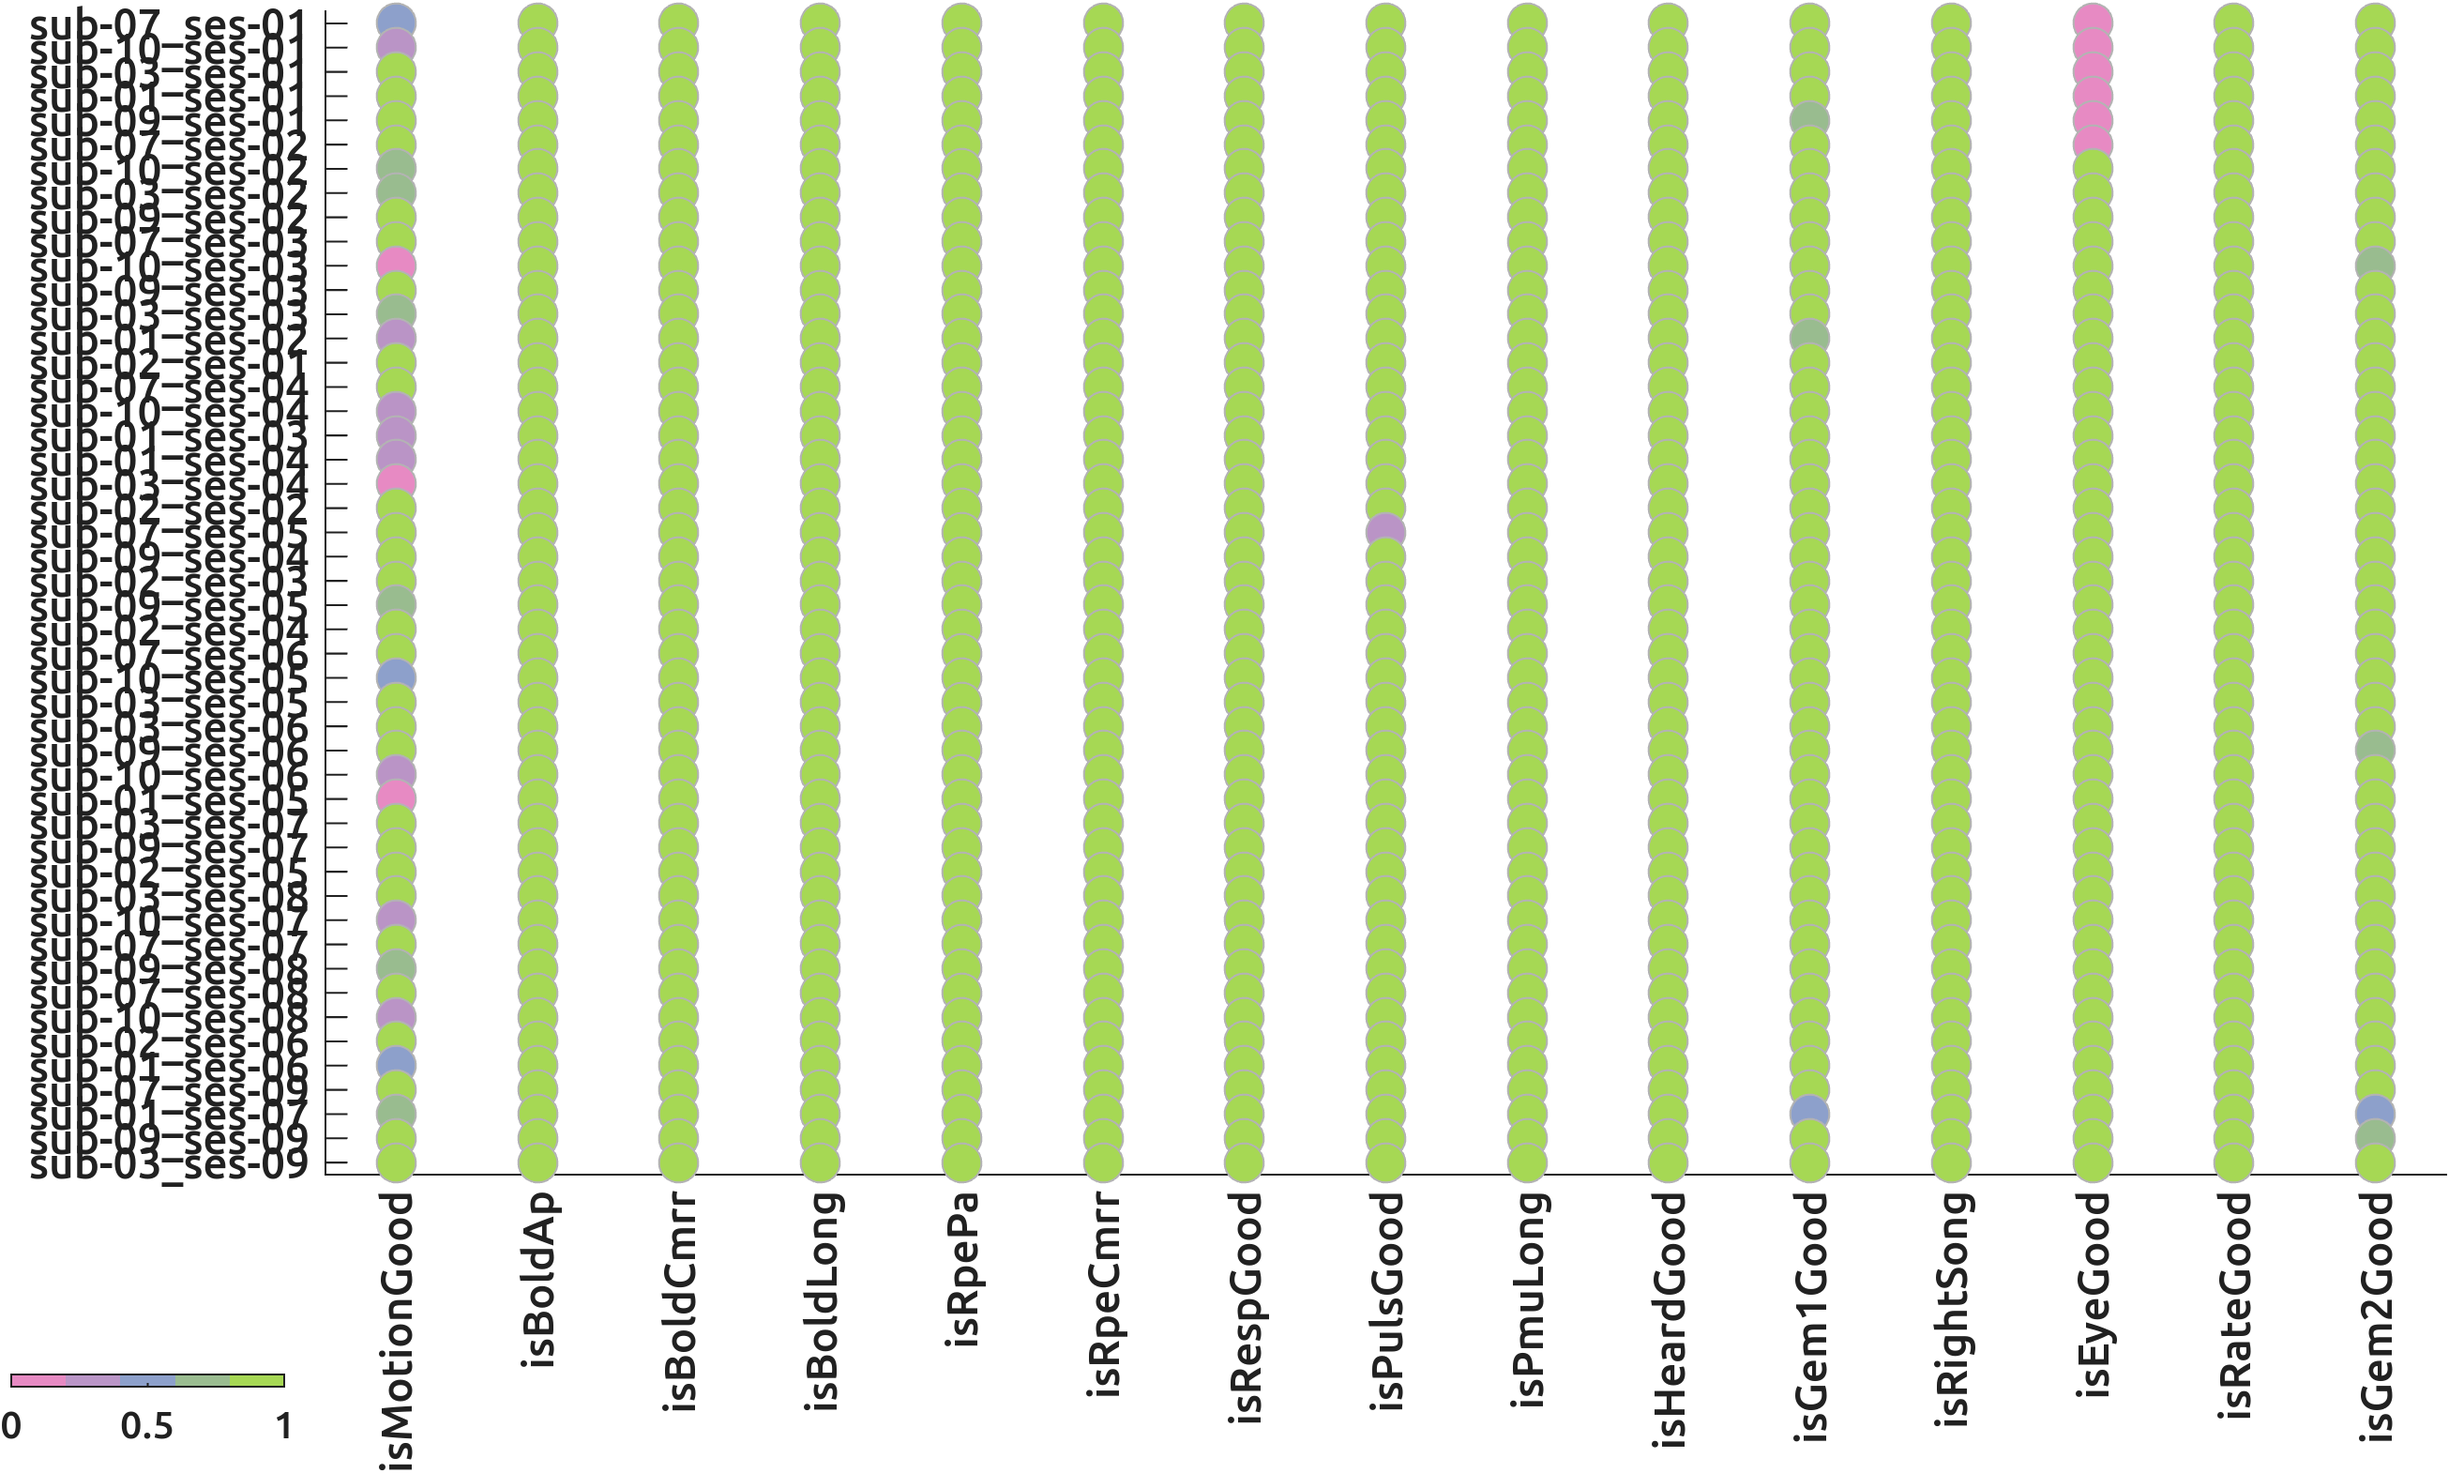
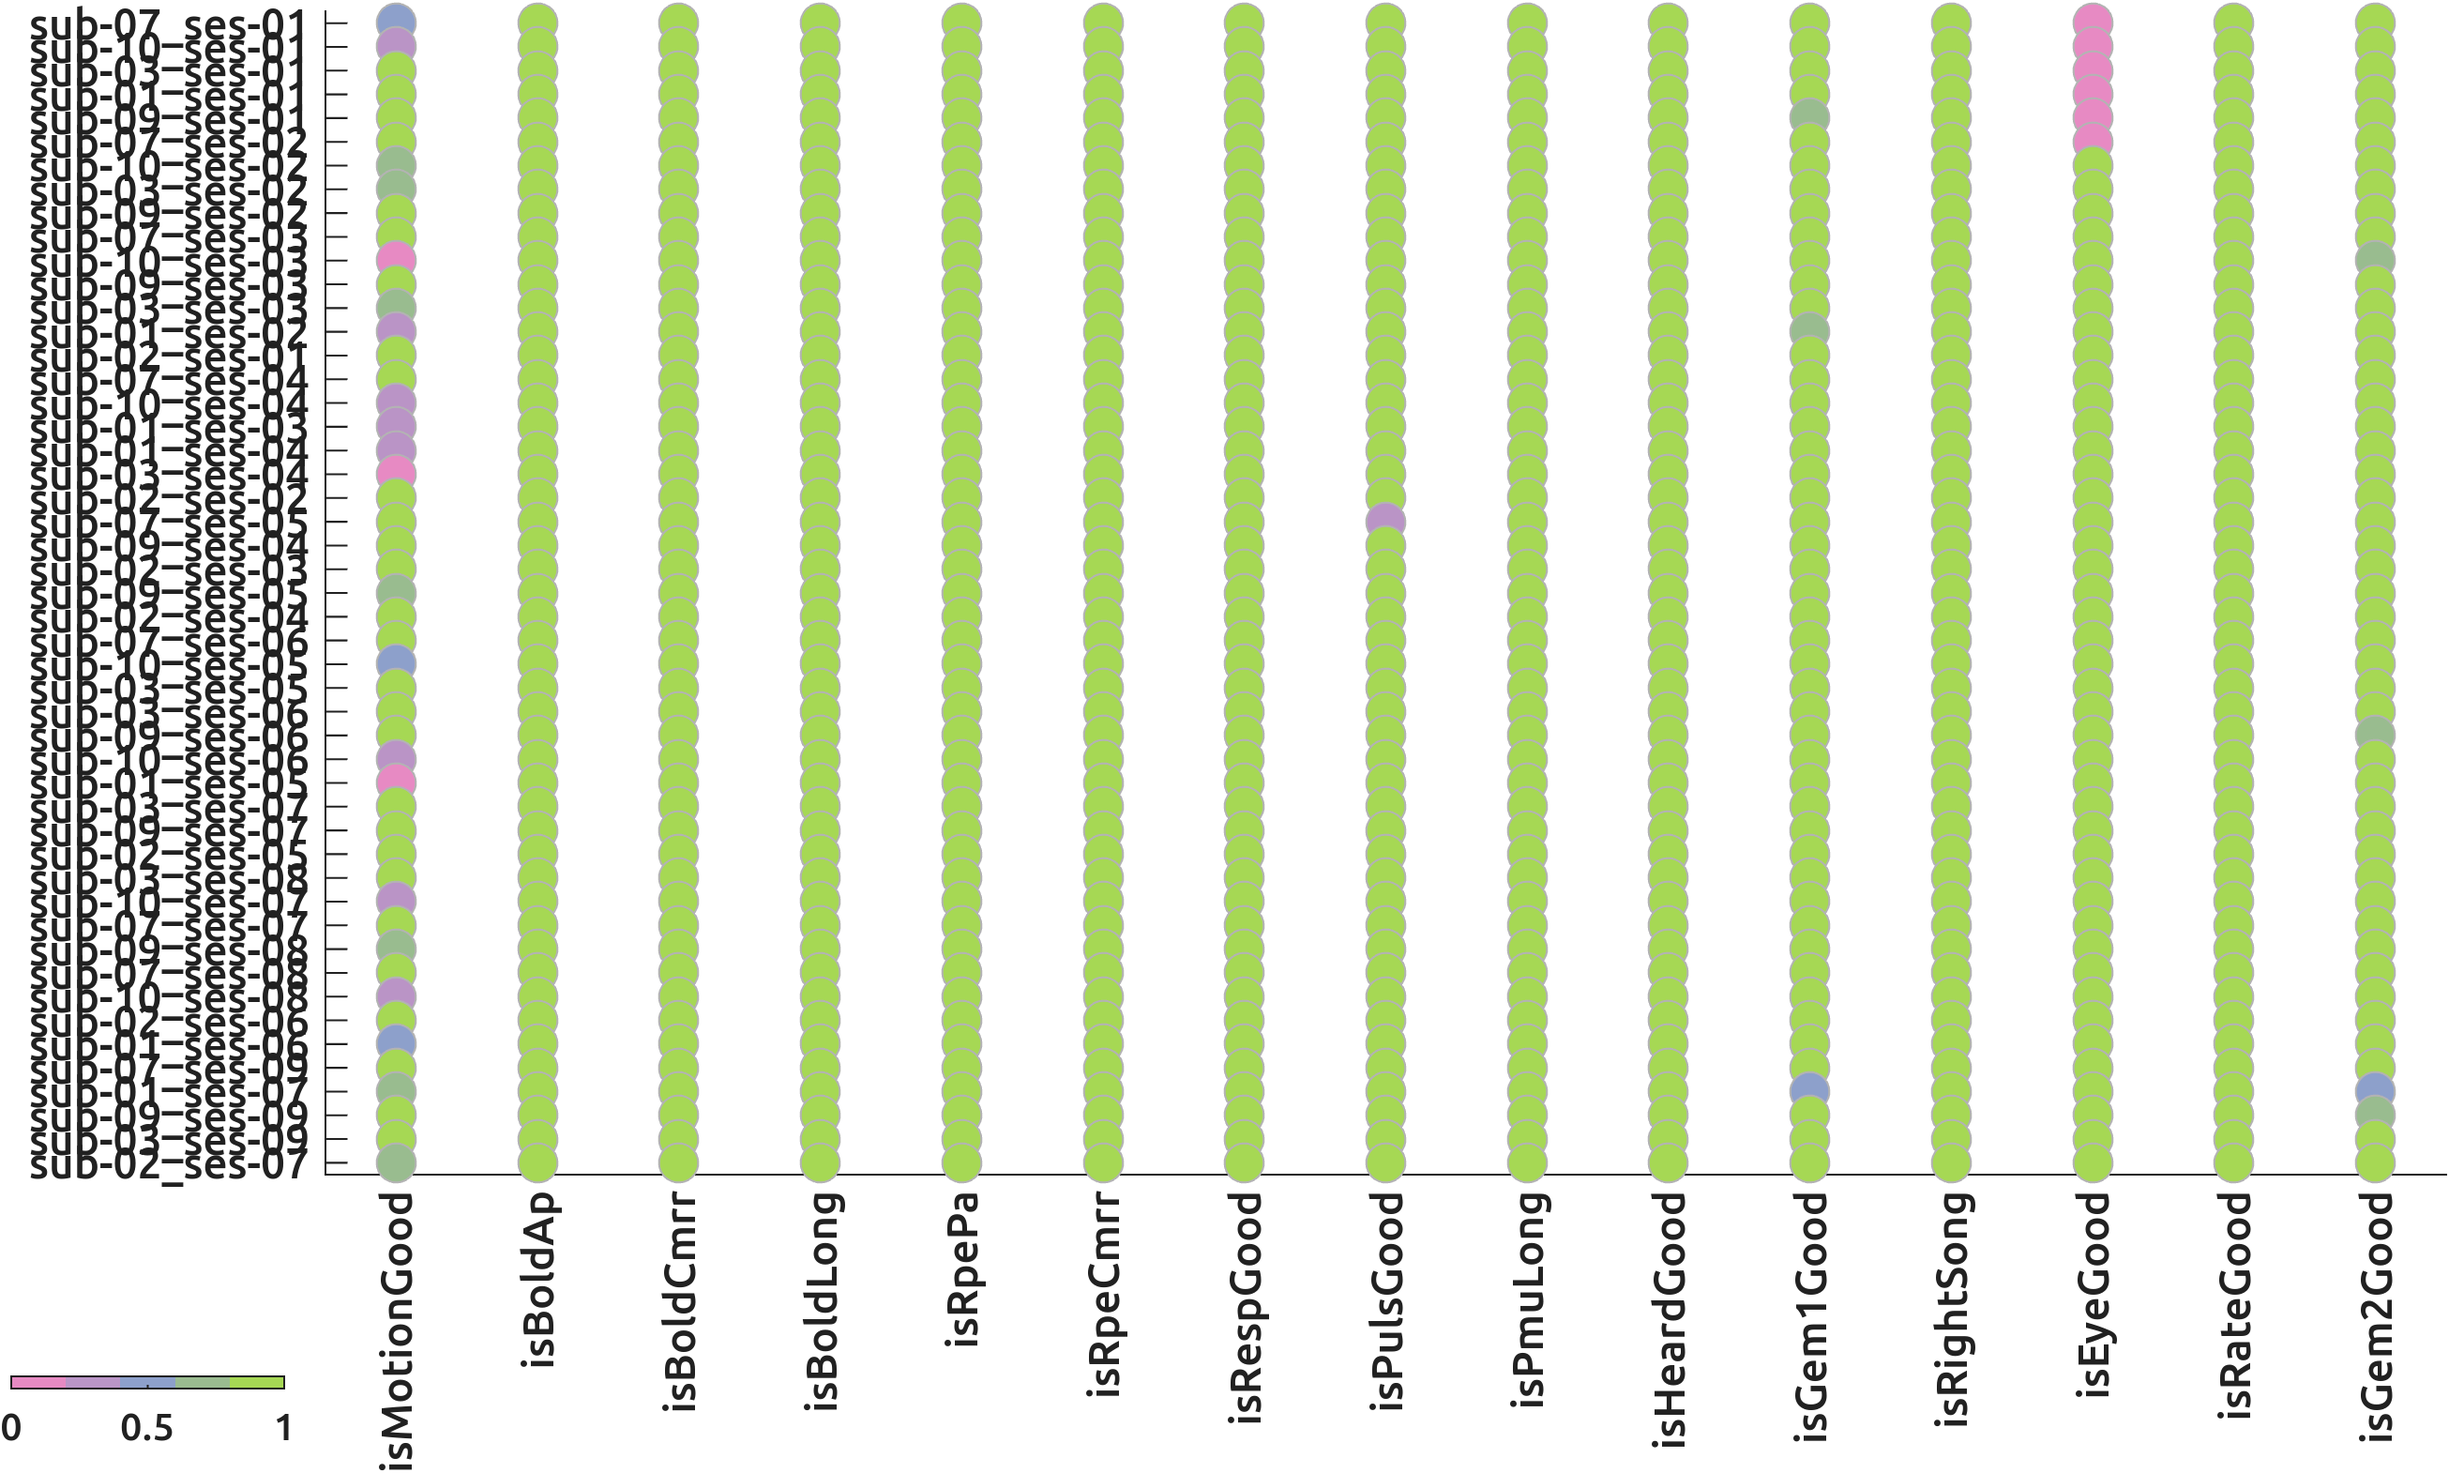
MAF_IMPORT:autoupdate

diff --git a/pages/topup/sub-02.md b/pages/topup/sub-02.md
@@ -5,6 +5,25 @@ nav_order: 2
 parent: topup
 ---
 # topup: sub-02
+### 20260801T1000:sub-02_ses-07
+![slices_run-01](figs/sub-02_ses-07_run-01.png)
+
+![slices_run-02](figs/sub-02_ses-07_run-02.png)
+
+![slices_run-03](figs/sub-02_ses-07_run-03.png)
+
+![slices_run-04](figs/sub-02_ses-07_run-04.png)
+
+![slices_run-05](figs/sub-02_ses-07_run-05.png)
+
+![slices_run-06](figs/sub-02_ses-07_run-06.png)
+
+![slices_run-07](figs/sub-02_ses-07_run-07.png)
+
+![slices_run-08](figs/sub-02_ses-07_run-08.png)
+
+![slices_run-09](figs/sub-02_ses-07_run-09.png)
+
 ### 20260718T1020:sub-02_ses-06
 ![slices_run-01](figs/sub-02_ses-06_run-01.png)
 

diff --git a/index.md b/index.md
@@ -5,7 +5,7 @@ nav_order: 0
 ---
 
 # Overview of the current progress
-Here, the current (31-Jul-2026 22:25:21 `Europe/Berlin`) progress of the fMRI+ data acquisition of the [ManyMusic](https://manymusic.net/) project is shared. Please direct any questions to [Dr. Seung-Goo Kim](mailto:seung-goo.kim@ae.mpg.de).
+Here, the current (01-Aug-2026 14:20:45 `Europe/Berlin`) progress of the fMRI+ data acquisition of the [ManyMusic](https://manymusic.net/) project is shared. Please direct any questions to [Dr. Seung-Goo Kim](mailto:seung-goo.kim@ae.mpg.de).
 
 ## Current acquisition
 

diff --git a/pages/motion/sub-02.md b/pages/motion/sub-02.md
@@ -5,6 +5,9 @@ nav_order: 2
 parent: motion
 ---
 # headmotion: sub-02
+### 20260801T1000:sub-02_ses-07
+![headmotion](figs/sub-02_ses-07.png)
+
 ### 20260718T1020:sub-02_ses-06
 ![headmotion](figs/sub-02_ses-06.png)
 
